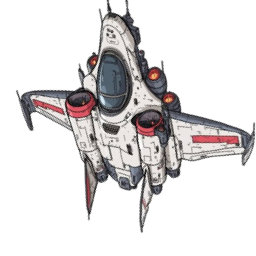
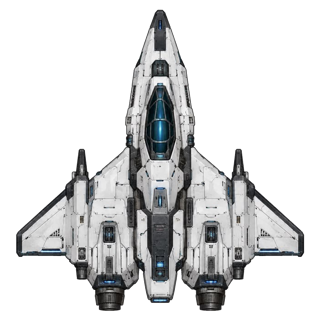
Fight Club: summon alone, invite friends or a whole group, accept/decline; jet fighter

diff --git a/Sources/ClaudeSchedule/Friends/FightClub.swift b/Sources/ClaudeSchedule/Friends/FightClub.swift
@@ -1,12 +1,11 @@
 import SwiftUI
 
-// Fight Club (experiment): a group sets a goal, a space monster appears with one health point per minute
+// Fight Club (experiment): you set a goal (alone, then invite friends or a whole group), a space monster appears with one health point per minute
 // the goal takes. Every minute you study after it appears is a bullet; fire them from your ship.
 // Beat it before the deadline and the rockets are shared by damage done. Rules run on the server (supabase/bosses.sql).
 
 struct Boss: Decodable, Identifiable, Hashable {
     let id: UUID
-    let group_id: UUID
     let creator: UUID
     let title: String
     let hp: Int
@@ -20,6 +19,12 @@ struct Boss: Decodable, Identifiable, Hashable {
     var isAlive: Bool { status == "alive" }
 }
 
+struct BossInvite: Decodable, Hashable {
+    let boss_id: UUID
+    let user_id: UUID
+    let from_user: UUID
+}
+
 struct BossFighter: Decodable, Hashable {
     let boss_id: UUID
     let user_id: UUID
@@ -31,6 +36,9 @@ struct BossFighter: Decodable, Hashable {
 final class FightClubService {
     private(set) var bosses: [Boss] = []
     private(set) var fighters: [UUID: [BossFighter]] = [:]
+    /// Invites: to me (to answer) and the ones my fights sent out
+    private(set) var invites: [BossInvite] = []
+    @ObservationIgnored private var notified: Set<UUID> = []
     var error: String?
     var busy = false
 
@@ -39,8 +47,6 @@ final class FightClubService {
     @ObservationIgnored var onRocketsMoved: (() async -> Void)?
 
     init(store: AppStore) { self.store = store }
-    var testGroupID: (() -> UUID?)?
-    private func testGroup() async -> UUID? { testGroupID?() }
 
     func fighters(of b: Boss) -> [BossFighter] { fighters[b.id] ?? [] }
     func damageDone(_ b: Boss) -> Int { fighters(of: b).reduce(0) { $0 + $1.damage } }
@@ -62,15 +68,18 @@ final class FightClubService {
                 let ids = list.map { $0.id.uuidString.lowercased() }.joined(separator: ",")
                 for r in try await client.select("boss_fighters?boss_id=in.(\(ids))", as: [BossFighter].self) { by[r.boss_id, default: []].append(r) }
             }
+            let inv = try await client.select("boss_invites?select=boss_id,user_id,from_user", as: [BossInvite].self)
             bosses = list
             fighters = by
+            invites = inv
+            notifyNewInvites()
         } catch {}
         // Developer tool: CS_TEST_BOSS=1 shows a pretend monster (local only, firing does nothing)
-        if ProcessInfo.processInfo.environment["CS_TEST_BOSS"] != nil, let g = await testGroup() {
-            let fake = Boss(id: UUID(uuidString: "00000000-0000-0000-0000-00000000B055")!, group_id: g, creator: UUID(), title: "Test monster",
+        if ProcessInfo.processInfo.environment["CS_TEST_BOSS"] != nil, let me = await client.userID {
+            let fake = Boss(id: UUID(uuidString: "00000000-0000-0000-0000-00000000B055")!, creator: UUID(), title: "Test monster",
                             hp: 900, deadline: Date().addingTimeInterval(86400 * 2), monster: 3, status: "alive", created_at: Date().addingTimeInterval(-86400 * 3))
             if !bosses.contains(where: { $0.id == fake.id }) { bosses.insert(fake, at: 0) }
-            fighters[fake.id] = [BossFighter(boss_id: fake.id, user_id: UUID(), minutes: 300, damage: 240)]
+            fighters[fake.id] = [BossFighter(boss_id: fake.id, user_id: me, minutes: 300, damage: 240)]
         }
     }
 
@@ -88,18 +97,61 @@ final class FightClubService {
         await load()
     }
 
-    func create(group: UUID, title: String, minutes: Int, deadline: Date) async -> Bool {
-        struct Body: Encodable { let g: String; let title: String; let goal: Int; let ends: String }
+    /// Summon a monster on your own; invite people afterwards. Returns its id.
+    func create(title: String, minutes: Int, deadline: Date) async -> UUID? {
+        struct Body: Encodable { let title: String; let goal: Int; let ends: String }
         busy = true
         defer { busy = false }
         do {
-            _ = try await client.rpc("create_boss", Body(g: group.uuidString, title: title, goal: minutes, ends: ISO8601DateFormatter().string(from: deadline)))
+            let data = try await client.rpc("create_boss", Body(title: title, goal: minutes, ends: ISO8601DateFormatter().string(from: deadline)))
+            let id = (try? JSONDecoder().decode(UUID.self, from: data))
             error = nil
             await load()
-            return true
+            return id
         } catch {
             self.error = (error as? SupabaseClient.APIError)?.message ?? "Can't reach the server."
-            return false
+            return nil
+        }
+    }
+
+    // MARK: Invites
+
+    func invitesToMe(_ me: UUID?) -> [BossInvite] { invites.filter { $0.user_id == me } }
+    func invited(to b: Boss) -> [BossInvite] { invites.filter { $0.boss_id == b.id } }
+
+    func invite(_ b: Boss, friend: UUID) async {
+        struct Body: Encodable { let b: String; let who: String }
+        await perform { _ = try await self.client.rpc("invite_boss", Body(b: b.id.uuidString, who: friend.uuidString)) }
+    }
+
+    /// Everyone in the group gets the invite
+    func invite(_ b: Boss, group: UUID) async {
+        struct Body: Encodable { let b: String; let g: String }
+        await perform { _ = try await self.client.rpc("invite_boss_group", Body(b: b.id.uuidString, g: group.uuidString)) }
+    }
+
+    func answer(_ b: UUID, accept: Bool) async {
+        struct Body: Encodable { let b: String; let accept: Bool }
+        await perform { _ = try await self.client.rpc("answer_boss_invite", Body(b: b.uuidString, accept: accept)) }
+    }
+
+    private func perform(_ work: @escaping () async throws -> Void) async {
+        busy = true
+        defer { busy = false }
+        do { try await work(); error = nil } catch { self.error = (error as? SupabaseClient.APIError)?.message ?? "Can't reach the server." }
+        await load()
+    }
+
+    private func notifyNewInvites() {
+        Task {
+            guard let me = await client.userID else { return }
+            for inv in invitesToMe(me) where !notified.contains(inv.boss_id) {
+                notified.insert(inv.boss_id)
+                if let b = bosses.first(where: { $0.id == inv.boss_id }) {
+                    Notifier.post(id: "boss-\(b.id)", title: "👾 You're invited to fight “\(b.title)”",
+                                  body: "Open Fight Club to join — study to earn bullets and share the prize.")
+                }
+            }
         }
     }
 
@@ -130,21 +182,22 @@ final class FightClubService {
 func monsterImage(_ n: Int) -> NSImage? { PlanetPainter.bundleImage("boss\(min(5, max(1, n)))") }
 private func hm(_ m: Int) -> String { let h = m / 60, r = m % 60; return h == 0 ? "\(r)m" : (r == 0 ? "\(h)h" : "\(h)h \(r)m") }
 
-/// The monsters of one study group
+/// Monsters you fight
 struct FightClubCard: View {
-    let group: StudyGroup
     @Environment(FightClubService.self) private var fc
+    @Environment(FriendsService.self) private var friends
     @State private var creating = false
     @State private var battle: Boss?
 
     var body: some View {
-        let list = fc.bosses.filter { $0.group_id == group.id }
-        Card(title: "Fight Club", systemImage: "burst.fill") {
+        let me = friends.me?.id
+        let list = fc.bosses.filter { b in fc.fighters(of: b).contains { $0.user_id == me } || b.id.uuidString.hasSuffix("B055") }
+        Card(title: "Your fights", systemImage: "burst.fill") {
             HStack {
-                Text("Set a goal and a monster appears. Every minute you study is a bullet — beat it together before the deadline and share the rockets by damage.")
+                Text("Set a goal and a monster appears. Fight alone or invite friends or a whole group. Every minute you study is a bullet.")
                     .font(.caption).foregroundStyle(.secondary)
                 Spacer()
-                Button { fc.error = nil; creating = true } label: { Label("New Monster", systemImage: "plus") }
+                Button { fc.error = nil; creating = true } label: { Label("Summon Monster", systemImage: "plus") }
                     .buttonStyle(.borderedProminent).tint(.red)
             }
             if list.isEmpty { Text("No monsters yet — summon one!").font(.callout).foregroundStyle(.secondary) }
@@ -162,6 +215,8 @@ struct FightClubCard: View {
                                     .background(Capsule().fill(Color.red.opacity(0.25)))
                                 Text(b.status == "defeated" ? "Defeated 🏆" : b.status == "escaped" ? "Escaped 💨" : "Due \(b.deadline.formatted(.relative(presentation: .named)))")
                                     .font(.caption).foregroundStyle(.secondary)
+                                Spacer()
+                                Label("\(fc.fighters(of: b).count)", systemImage: "person.2.fill").font(.caption).foregroundStyle(.secondary)
                             }
                             ProgressView(value: Double(fc.healthLeft(b)), total: Double(b.hp)).tint(.red)
                             Text("\(hm(fc.healthLeft(b))) of \(hm(b.hp)) health left · \(b.pool) 🚀 prize").font(.caption).foregroundStyle(.secondary)
@@ -175,13 +230,78 @@ struct FightClubCard: View {
                 .buttonStyle(.plain)
             }
         }
-        .sheet(isPresented: $creating) { NewBossSheet(group: group) }
+        .sheet(isPresented: $creating) { NewBossSheet { id in creating = false; Task { await fc.load(); battle = fc.bosses.first { $0.id == id } } } }
         .sheet(item: $battle) { BattleView(bossID: $0.id) }
     }
 }
 
+/// Invites waiting for my answer
+struct FightInvitesCard: View {
+    @Environment(FightClubService.self) private var fc
+    @Environment(FriendsService.self) private var friends
+
+    var body: some View {
+        let mine = fc.invitesToMe(friends.me?.id)
+        if !mine.isEmpty {
+            Card(title: "Invitations", systemImage: "envelope.badge.fill") {
+                ForEach(mine, id: \.boss_id) { inv in
+                    if let b = fc.bosses.first(where: { $0.id == inv.boss_id }) {
+                        HStack(spacing: 12) {
+                            if let img = monsterImage(b.monster) { Image(nsImage: img).resizable().scaledToFit().frame(width: 44, height: 44) }
+                            VStack(alignment: .leading, spacing: 2) {
+                                Text("\(friends.people[inv.from_user]?.profile.name ?? "A friend") invites you to fight “\(b.title)”").font(.callout.weight(.semibold))
+                                Text("LV \(b.monster) · \(hm(b.hp)) of health · \(b.pool) 🚀 prize · due \(b.deadline.formatted(.relative(presentation: .named)))")
+                                    .font(.caption).foregroundStyle(.secondary)
+                            }
+                            Spacer()
+                            Button("Decline") { Task { await fc.answer(b.id, accept: false) } }
+                            Button("Join the Fight") { Task { await fc.answer(b.id, accept: true) } }.buttonStyle(.borderedProminent).tint(.red)
+                        }
+                        .disabled(fc.busy)
+                    }
+                }
+            }
+        }
+    }
+}
+
+/// Invite friends one by one, or a whole group at once
+struct InviteMenu: View {
+    let boss: Boss
+    @Environment(FightClubService.self) private var fc
+    @Environment(FriendsService.self) private var friends
+    @State private var sent: String?
+
+    var body: some View {
+        let fighting = Set(fc.fighters(of: boss).map(\.user_id))
+        let invited = Set(fc.invited(to: boss).map(\.user_id))
+        Menu {
+            Section("Friends") {
+                ForEach(friends.friends) { f in
+                    Button {
+                        Task { await fc.invite(boss, friend: f.id); sent = "Invite sent to \(f.profile.name)" }
+                    } label: {
+                        Text(f.profile.name + (fighting.contains(f.id) ? " — fighting" : invited.contains(f.id) ? " — invited" : ""))
+                    }
+                    .disabled(fighting.contains(f.id) || invited.contains(f.id))
+                }
+                if friends.friends.isEmpty { Text("No friends yet") }
+            }
+            Section("Whole group") {
+                ForEach(friends.groups) { g in
+                    Button("\(g.name) (\(g.members.count))") { Task { await fc.invite(boss, group: g.id); sent = "Everyone in \(g.name) was invited" } }
+                }
+                if friends.groups.isEmpty { Text("No groups yet") }
+            }
+        } label: {
+            Label(sent ?? "Invite", systemImage: "person.badge.plus")
+        }
+        .fixedSize()
+    }
+}
+
 struct NewBossSheet: View {
-    let group: StudyGroup
+    var onCreated: (UUID) -> Void = { _ in }
     @Environment(FightClubService.self) private var fc
     @Environment(\.dismiss) private var dismiss
     @State private var title = ""
@@ -193,7 +313,7 @@ struct NewBossSheet: View {
 
     var body: some View {
         VStack(alignment: .leading, spacing: 14) {
-            Label("Summon a monster in \(group.name)", systemImage: "burst.fill").font(.title3.weight(.bold))
+            Label("Summon a monster", systemImage: "burst.fill").font(.title3.weight(.bold))
             HStack(alignment: .top, spacing: 16) {
                 if let img = monsterImage(level) {
                     Image(nsImage: img).resizable().scaledToFit()
@@ -207,14 +327,14 @@ struct NewBossSheet: View {
                     Text("Monster level \(level) · \(hm(Int(hours * 60))) of health · prize \(pool) 🚀 shared by damage").font(.callout.weight(.semibold))
                 }
             }
-            Text("Everyone in the group can fight. Each minute studied after it appears is one bullet. If the deadline passes first, it escapes and nobody wins.")
+            Text("You can fight alone, or invite friends or a whole group from the battle screen. Each minute studied after it appears is one bullet. If the deadline passes first, it escapes and nobody wins.")
                 .font(.caption).foregroundStyle(.secondary)
             if let e = fc.error { Text(e).font(.caption).foregroundStyle(.red) }
             HStack {
                 Spacer()
                 Button("Cancel") { dismiss() }.keyboardShortcut(.cancelAction)
                 Button("Summon") {
-                    Task { if await fc.create(group: group.id, title: title.isEmpty ? "Study goal" : title, minutes: Int(hours * 60), deadline: deadline) { dismiss() } }
+                    Task { if let id = await fc.create(title: title.isEmpty ? "Study goal" : title, minutes: Int(hours * 60), deadline: deadline) { onCreated(id) } }
                 }
                 .buttonStyle(.borderedProminent).tint(.red).keyboardShortcut(.defaultAction).disabled(fc.busy)
             }
@@ -263,6 +383,7 @@ struct BattleView: View {
                 Spacer()
                 Text(b.status == "defeated" ? "Defeated 🏆" : b.status == "escaped" ? "Escaped 💨" : "Escapes \(b.deadline.formatted(.relative(presentation: .named)))")
                     .font(.callout).foregroundStyle(.secondary)
+                if b.isAlive { InviteMenu(boss: b) }
                 Button("Done") { dismiss() }.keyboardShortcut(.defaultAction)
             }
             HStack(spacing: 8) {
@@ -399,9 +520,8 @@ private struct BulletView: View {
     }
 }
 
-/// Fight Club page: the monsters of every group you're in
+/// Fight Club page: invitations and your fights
 struct FightClubPage: View {
-    @Environment(FriendsService.self) private var friends
     @Environment(FightClubService.self) private var fc
 
     var body: some View {
@@ -411,21 +531,15 @@ struct FightClubPage: View {
                     if let img = monsterImage(5) { Image(nsImage: img).resizable().scaledToFit().frame(width: 76, height: 76) }
                     VStack(alignment: .leading, spacing: 4) {
                         Text("Fight Club").font(.largeTitle.weight(.bold))
-                        Text("Summon a monster for a group goal. Study to earn bullets, fire them from your ship, and share the rockets when it falls.")
+                        Text("Summon a monster for a study goal. Study to earn bullets, fire them from your ship, and share the rockets when it falls.")
                             .foregroundStyle(.secondary)
                     }
                     Spacer()
                     if let ship = PlanetPainter.bundleImage("fighter") { Image(nsImage: ship).resizable().scaledToFit().frame(width: 70, height: 70) }
                 }
-                if friends.groups.isEmpty {
-                    Card { Text("Join or create a study group in Friends → Groups to fight monsters together.").foregroundStyle(.secondary) }
-                }
-                ForEach(friends.groups) { g in
-                    VStack(alignment: .leading, spacing: 6) {
-                        Label(g.name, systemImage: "person.3.fill").font(.title3.weight(.semibold))
-                        FightClubCard(group: g)
-                    }
-                }
+                FightInvitesCard()
+                FightClubCard()
+                if let e = fc.error { Text(e).font(.caption).foregroundStyle(.red) }
             }
             .padding(24)
         }

diff --git a/Sources/ClaudeSchedule/ClaudeScheduleApp.swift b/Sources/ClaudeSchedule/ClaudeScheduleApp.swift
@@ -42,7 +42,6 @@ struct ClaudeScheduleApp: App {
         _challenges = State(initialValue: challenges)
         let fightClub = FightClubService(store: store)
         fightClub.onRocketsMoved = { [weak account] in await account?.claimGifts() }
-        fightClub.testGroupID = { [weak friends] in friends?.groups.first?.id }
         _fightClub = State(initialValue: fightClub)
     }
 
